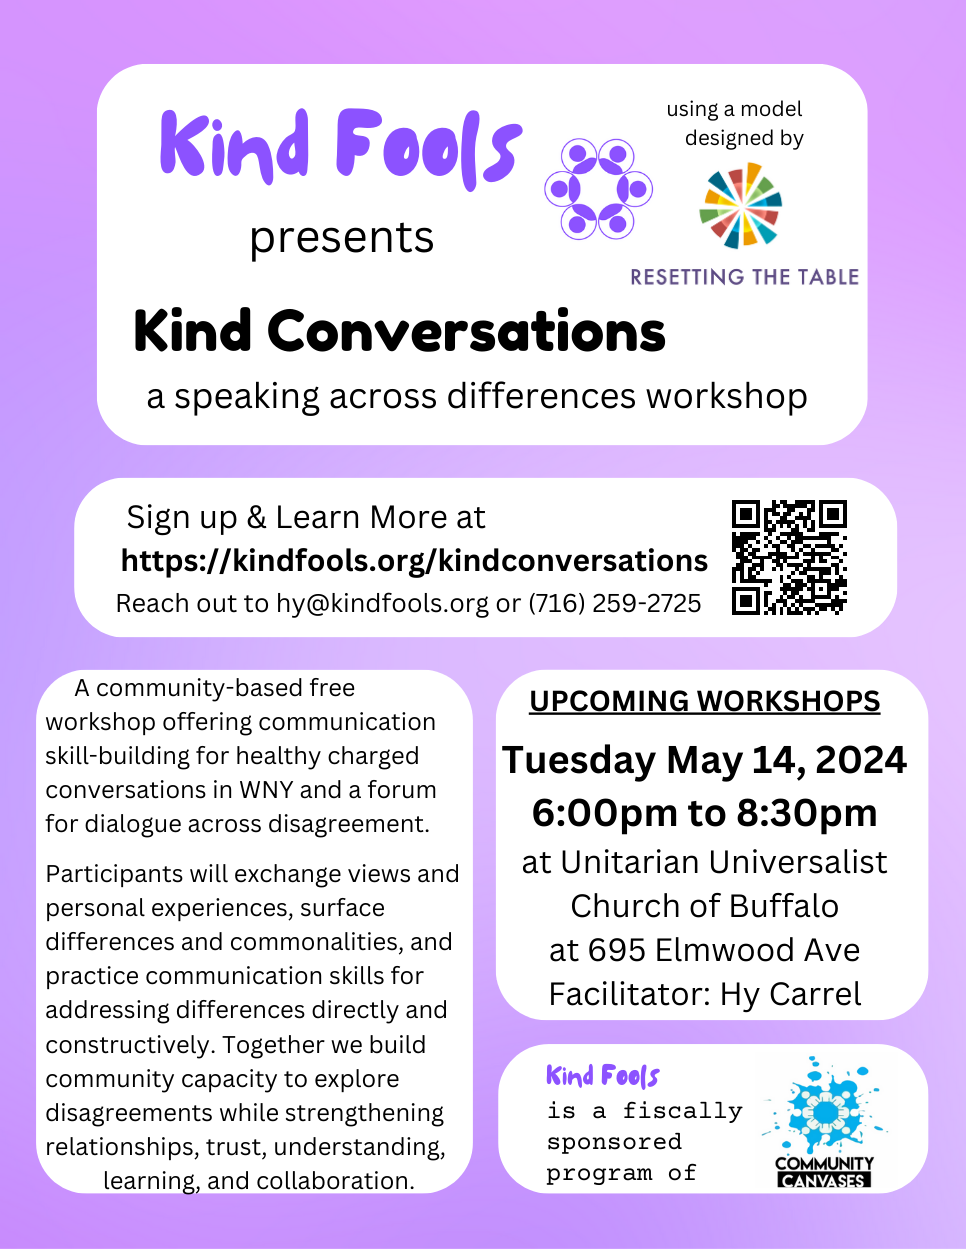
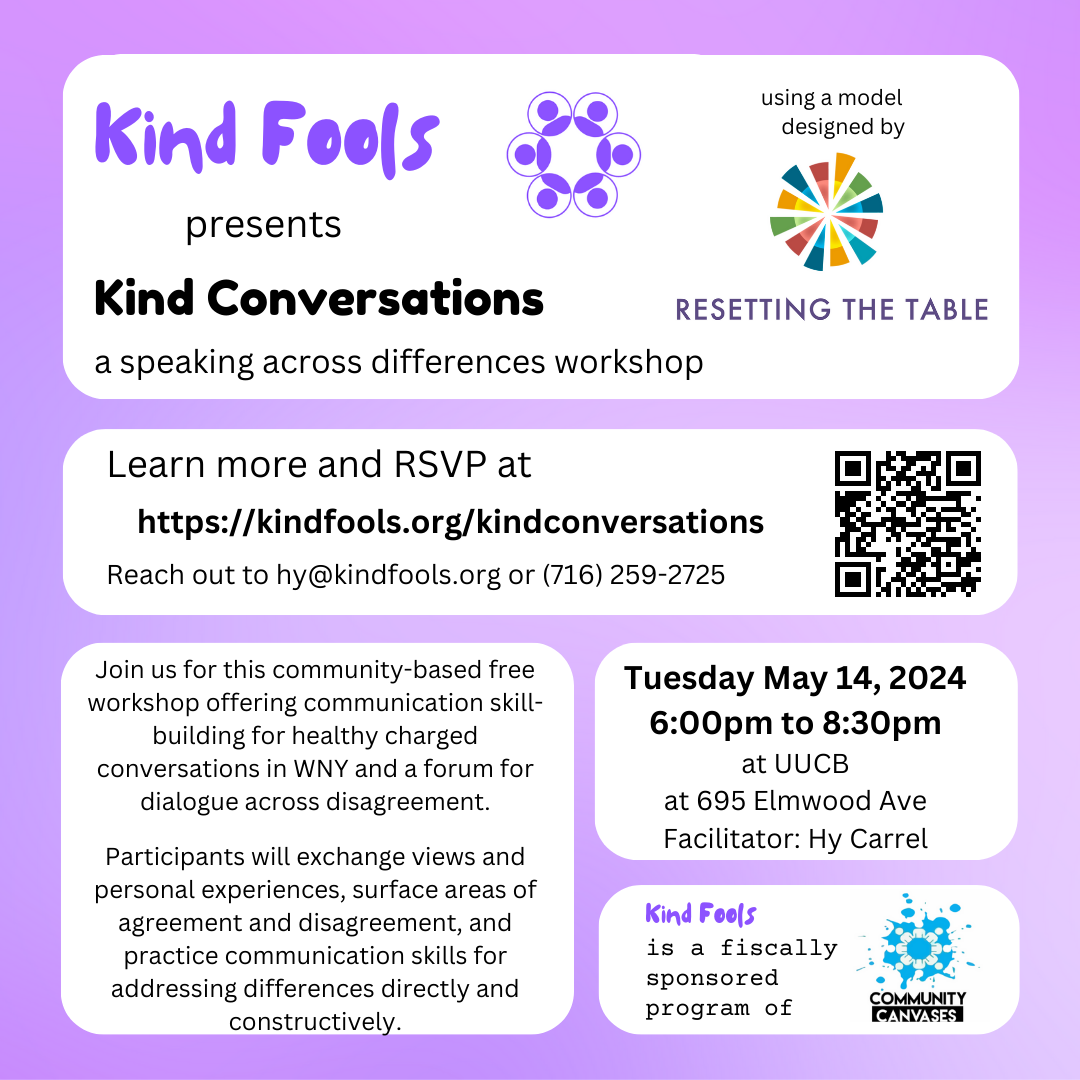
Update KC flyer

diff --git a/_pages/kindconversations.md b/_pages/kindconversations.md
@@ -10,7 +10,7 @@ header:
 
 # Kind Conversations
 
-- **Tuesday, May 14, 2024 6:00pm - 8:30pm** Kind Conversations
+- **Tuesday, May 14, 2024 6:00pm - 8:30pm** Kind Conversations at Unitarian Universalist Church of Buffalo at 695 Elmwood Avenue
 [Sign Up](
 https://docs.google.com/forms/d/e/1FAIpQLSd3jJyc9LoHKF40-2usq4VuTALCibpHtX9s7hOpf06QA36CbA/viewform?usp=sf_link
 ){: .btn .btn--success}
@@ -22,7 +22,7 @@ A community-based free workshop offering communication skill-building for health
 Participants will exchange views and personal experiences, surface differences and commonalities, and practice communication skills for addressing differences directly and constructively. Together we build community capacity to explore disagreements while strengthening relationships, trust, understanding,
 learning, and collaboration.
 
-<figure style="max-width: 966px" class="align-center">
+<figure style="max-width: 1080px" class="align-center">
   <img src="/assets/images/KindConversationsMay14.png"
    alt="Kind Conversations Flyer">
 </figure>
